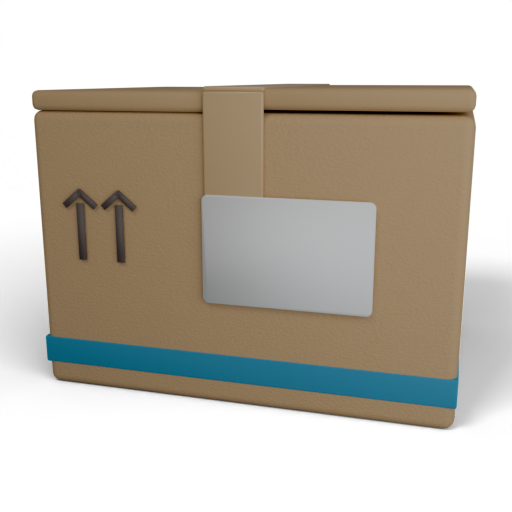
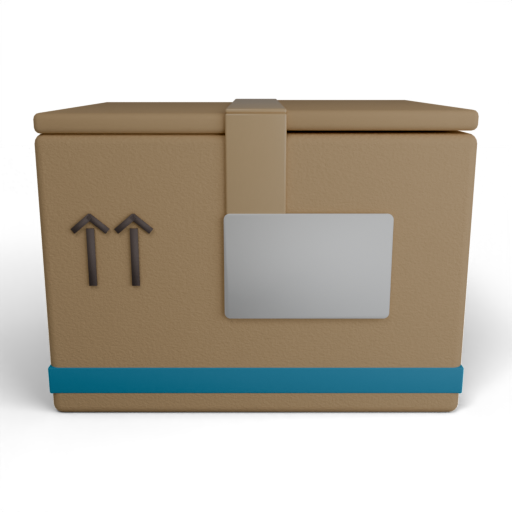
Receiving art: level produce stand (crates sit straight, no lip over lower crates), boxes square to the camera
Claude-Session: https://claude.ai/code/session_01QTQTfUYRubscqrThkTjaGx

Changed region(s): [[0.0625, 0.1562, 1.0, 0.8438], [0.0, 0.625, 0.6562, 0.8125], [0.125, 0.375, 0.3125, 0.5625]]

diff --git a/unity/CheckoutSimulator/ArtSource/receiving/receiving_art_v3.py b/unity/CheckoutSimulator/ArtSource/receiving/receiving_art_v3.py
@@ -324,7 +324,7 @@ def build_produce3(key="produce"):
     xl = -W / 2 + SW_ / 2; xr = W / 2 - TW / 2
     pine = wood_mat("pr_pine", (0.86, 0.64, 0.36, 1), (0.64, 0.44, 0.22, 1), grain=(1.0, 18.0, 18.0)); pine_d = wood_mat("pr_pine_d", (0.55, 0.36, 0.18, 1), (0.40, 0.25, 0.12, 1), grain=(18.0, 18.0, 1.0))
     chalk = mat("pr_chalk", (0.12, 0.14, 0.13, 1), rough=.9, bump=.2, scale=30); chalk_ink = mat("pr_chalk_ink", (0.95, 0.95, 0.92, 1), rough=.9, bump=0)
-    tiers = ((.30, .04, .36), (.68, .40, .36), (1.06, .76, .32)); tilt = rad(5)
+    tiers = ((.30, .04, .36), (.68, .40, .36), (1.06, .76, .32)); tilt = 0.     # level shelves: the crates stand straight
     for sx in (-1, 1):
         for k, (z, y, d) in enumerate(tiers):
             zt = z + d * math.sin(tilt)
@@ -335,7 +335,8 @@ def build_produce3(key="produce"):
     for k, (z, y, d) in enumerate(tiers):
         zc = z + d * math.sin(tilt) / 2; yc = y + d * math.cos(tilt) / 2
         for j in range(4): box(f"pr_tier{k}_{j}", (SW_ - .08, d / 4 - .008, .022), (xl, yc + (j - 1.5) * d / 4 * math.cos(tilt), zc + (j - 1.5) * d / 4 * math.sin(tilt)), pine, bevel=.004, rot=(tilt, 0, 0))
-        box(f"pr_lip{k}", (SW_ - .06, .025, .08), (xl, y - .01, z + .03), pine_d, bevel=.005, layer="front")
+        # a low front lip; only the bottom tier's is drawn over the boxes (an upper lip is behind the crates below it)
+        box(f"pr_lip{k}", (SW_ - .06, .025, .045), (xl, y - .01, z + .012), pine_d, bevel=.005, layer="front" if k == 0 else "back")
         zb = 0 if k == 0 else tiers[k - 1][0] + tiers[k - 1][2] * math.sin(tilt)      # the riser stands on the back of the tier below
         box(f"pr_under{k}", (SW_ - .08, .025, z - zb), (xl, y + .01, (z + zb) / 2), pine_d, bevel=.004, layer="front" if k == 0 else "back")
         sw = (SW_ - .12) / 2
@@ -674,7 +675,7 @@ def render_stage(what, samples=None):
     return "ok"
 
 # ---------------------------------------------------------------- boxes (512 x 512, contact shadow, eye-level view)
-BOX3_VIEW = dict(pitch=14, yaw=16, lens=50)
+BOX3_VIEW = dict(pitch=14, yaw=0, lens=50)     # square to the camera, like the shelves
 BOX3_PITCH = dict(bread=24, crate=20, tray=22, milk=18, pack=16)
 
 def _crate_plastic(nm, W, D, H, m, slots_m, handle=True, ribs=True):
